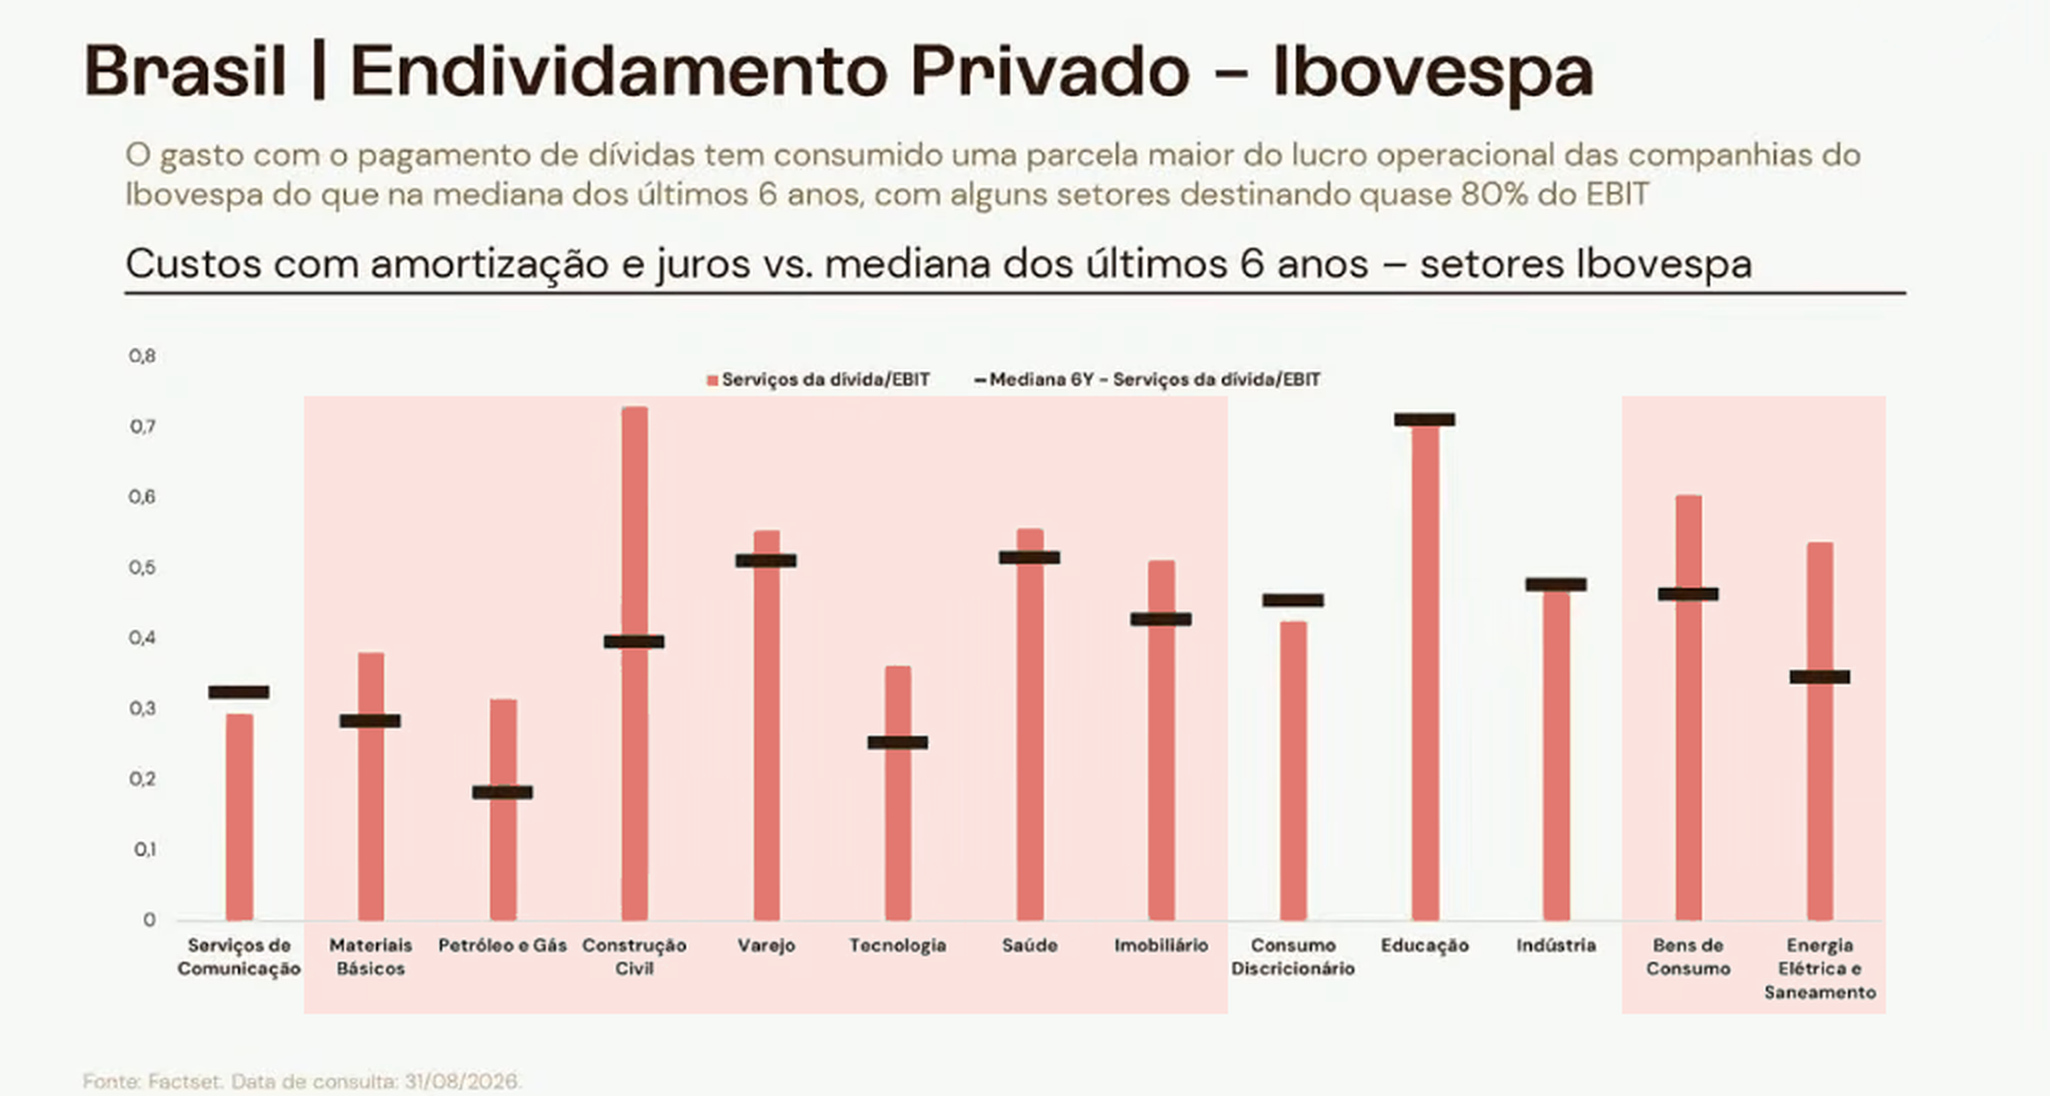
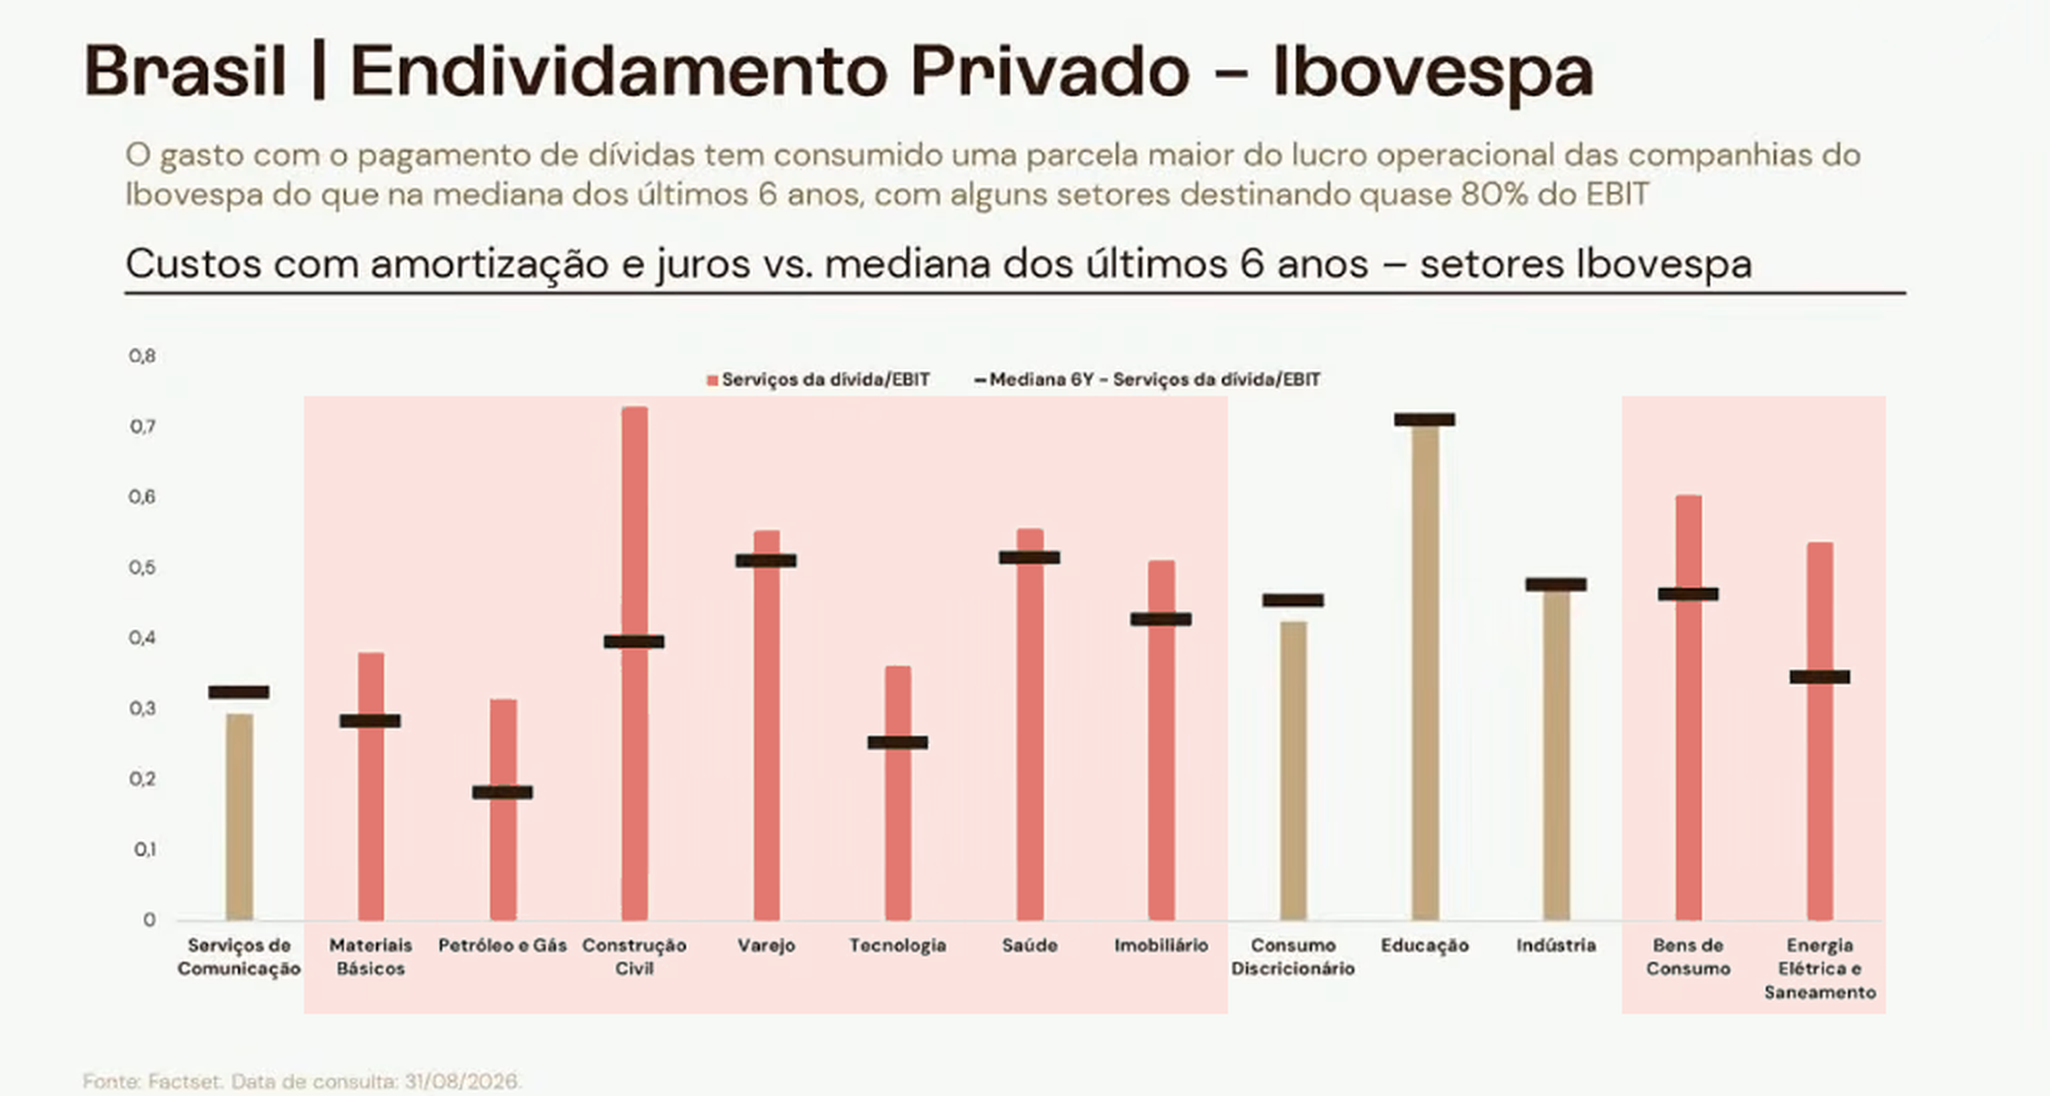
Ibovespa: só barras acima da mediana ficam em vermelho
Claude-Session: https://claude.ai/code/session_0199Y78iJYXbJq94ojXAjU9F

diff --git a/editar_endividamento_ibovespa.py b/editar_endividamento_ibovespa.py
@@ -18,7 +18,8 @@ press = [i for i, f in enumerate(folga) if f >= 0.03]
 print("pressionados:", [(nomes[i], round(folga[i], 2)) for i in press])
 hsv = mc.rgb_to_hsv(a / 255); h = hsv[..., 0] * 360; s = hsv[..., 1]; vv = hsv[..., 2]
 tan = (h > 25) & (h < 50) & (s > 0.10) & (s < 0.55) & (vv > 0.58) & (vv < 0.92)
-reg = np.zeros((H, W), bool); reg[168:470, :] = True; reg[180:200, 340:370] = True
+reg = np.zeros((H, W), bool); reg[180:200, 340:370] = True   # legenda
+for i in press: reg[168:470, cx[i] - 33:cx[i] + 34] = True   # só barras acima da mediana ficam vermelhas
 mask = tan & reg
 alpha = np.clip(n(a - BG) / n(TAN - BG), 0, 1)[..., None]
 out = a.copy(); out[mask] = (BG * (1 - alpha) + RED * alpha)[mask]
